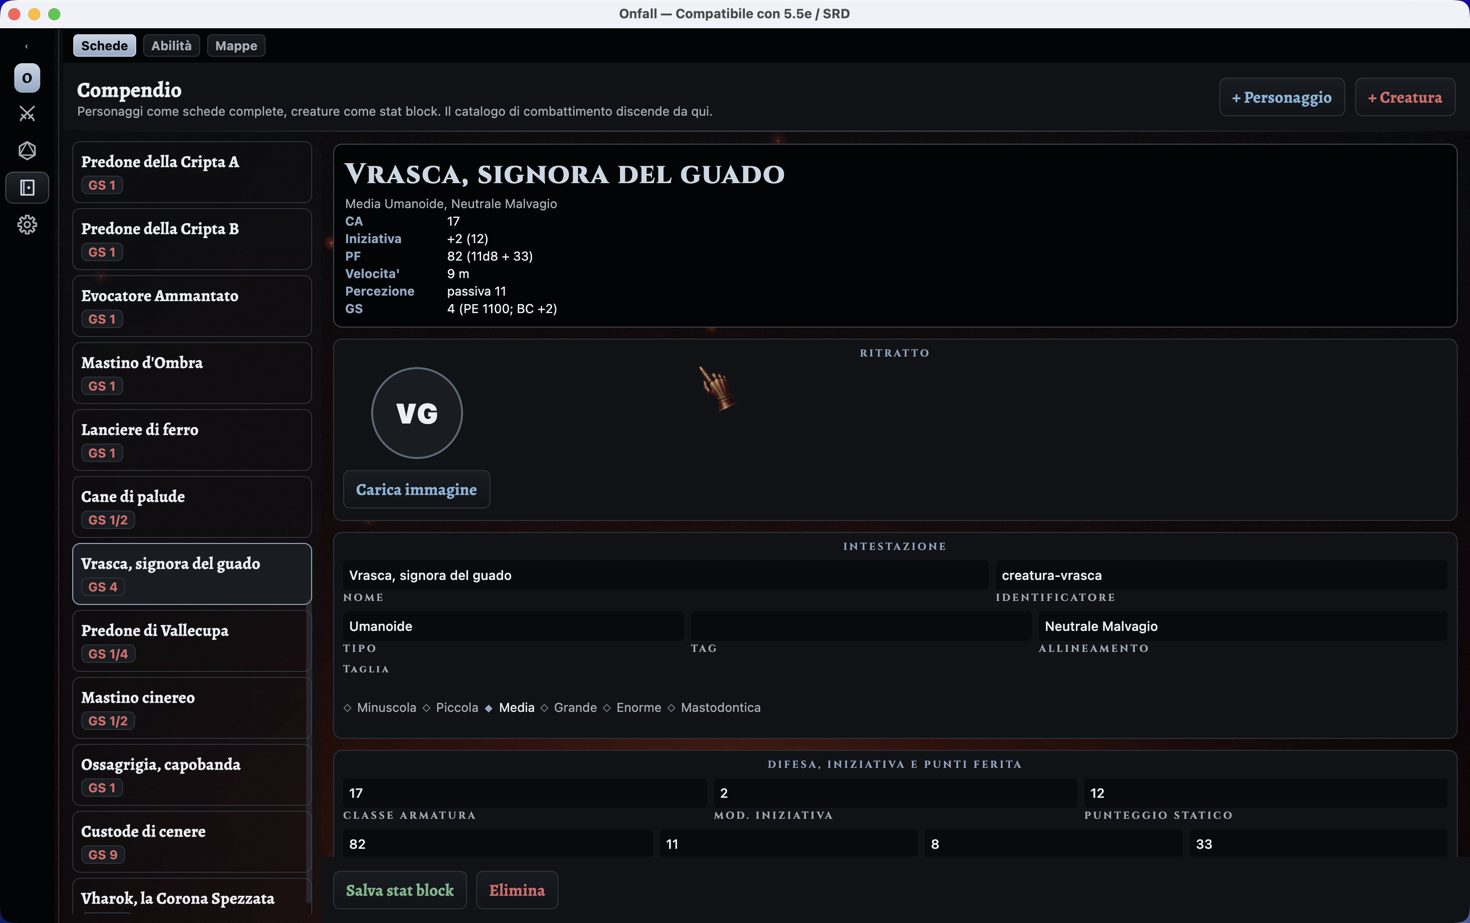
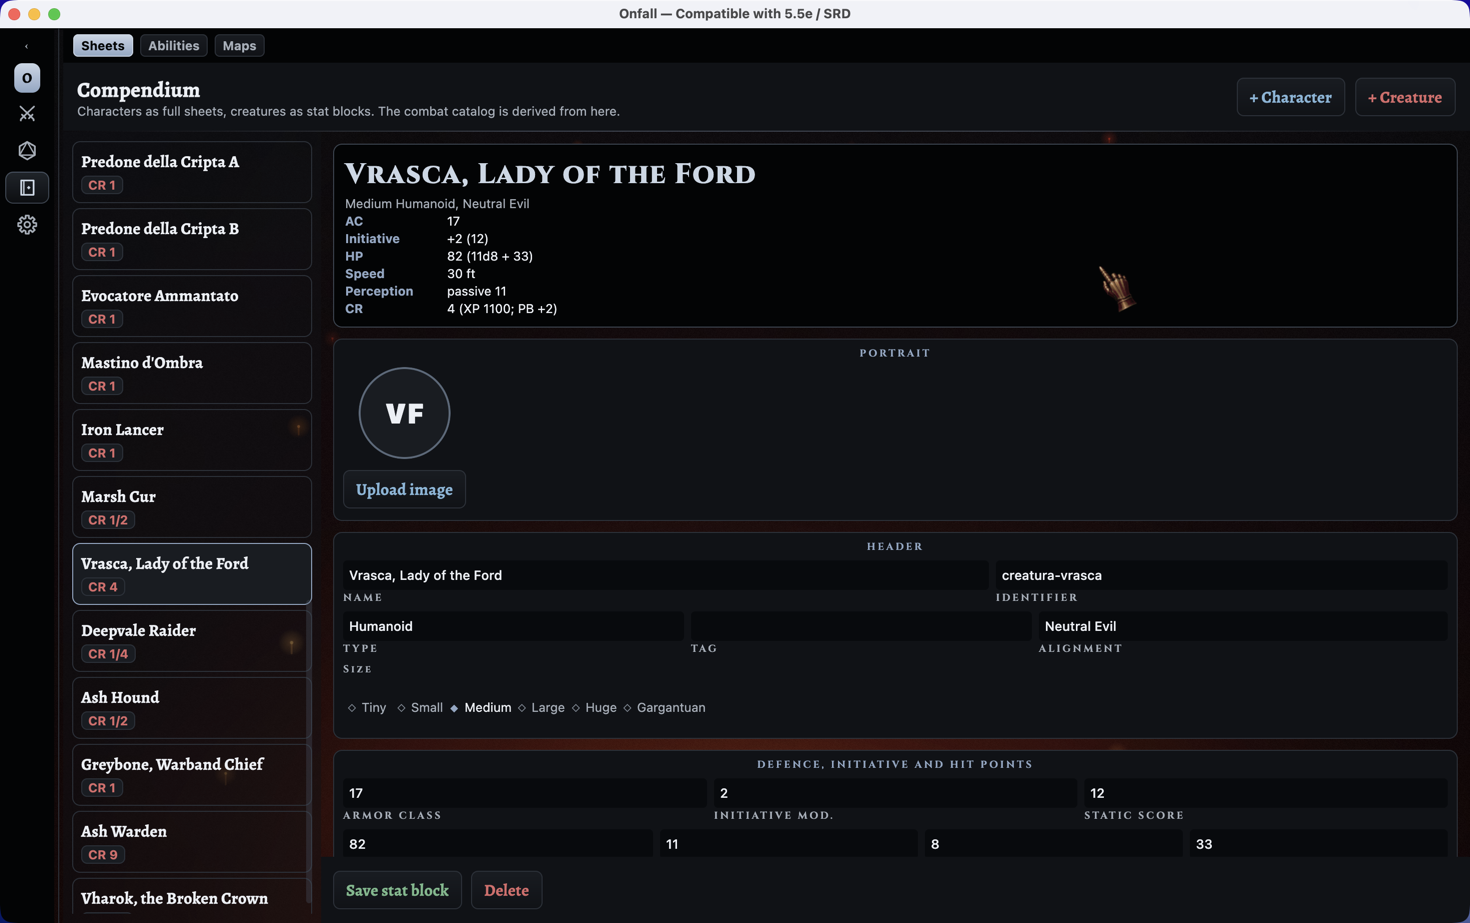
fix eng

diff --git a/README.md b/README.md
@@ -24,18 +24,19 @@ Five parts living on the same engine:
    of ruthlessness or not at all;
 5. a **game interface** that presents the fight as a turn based battle.
 
-Four destinations hold them together, and the navigation rail on the left collapses to icons, or
-disappears entirely, when the table needs the room. The screenshots below use the Italian labels
-**Battaglia** (battle), **Partita** (session), **Compendio**
-(Compendium) and **Impostazioni** (Settings). The language can be switched to English at runtime.
+Four destinations hold them together — **Battle**, **Game**, **Compendium** and **Settings** — and
+the navigation rail on the left collapses to icons, or disappears entirely, when the table needs the
+room. The screenshots below are taken in English; the whole interface, units included, switches to
+Italian at runtime and back.
 
 ## Starting a session
 
 A session begins from one of four places: a **bundled encounter**, the **templates** already in the
 Compendium, **from scratch** — which opens the Compendium to write the cast first — or a **saved
 session**. The three bundled encounters are written to be played as they are and to show the engine
-at different points of a campaign: *Le rovine di Vallecupa* (level 1), *Il guado di ferro* (level 4),
-*La corona spezzata* (level 20).
+at different points of a campaign: *The Ruins of Deepvale* (level 1), *The Iron Ford* (level 4),
+*The Broken Crown* (level 20). Their names follow the interface language, like everything else the
+SRD pack carries.
 
 The builder then walks through five steps: where to start from, who takes part, the grid, how to
 begin, and who commands the opposition. In the participants step each template gets a **faction**
@@ -426,5 +427,5 @@ reached by `check`, not by `test`.
 
 **All rights reserved.** The application may be downloaded, compiled, installed, and used to play
 games for personal, non-commercial purposes. Modification, redistribution, forks, and reuse in other
-projects are not permitted. The Italian and English SRD content pack remains separately available under CC BY
-4.0. The full terms are in [`LICENSE.md`](LICENSE.md).
+projects are not permitted. The Italian and English SRD content pack remains separately available
+under CC BY 4.0. The full terms are in [`LICENSE.md`](LICENSE.md).
